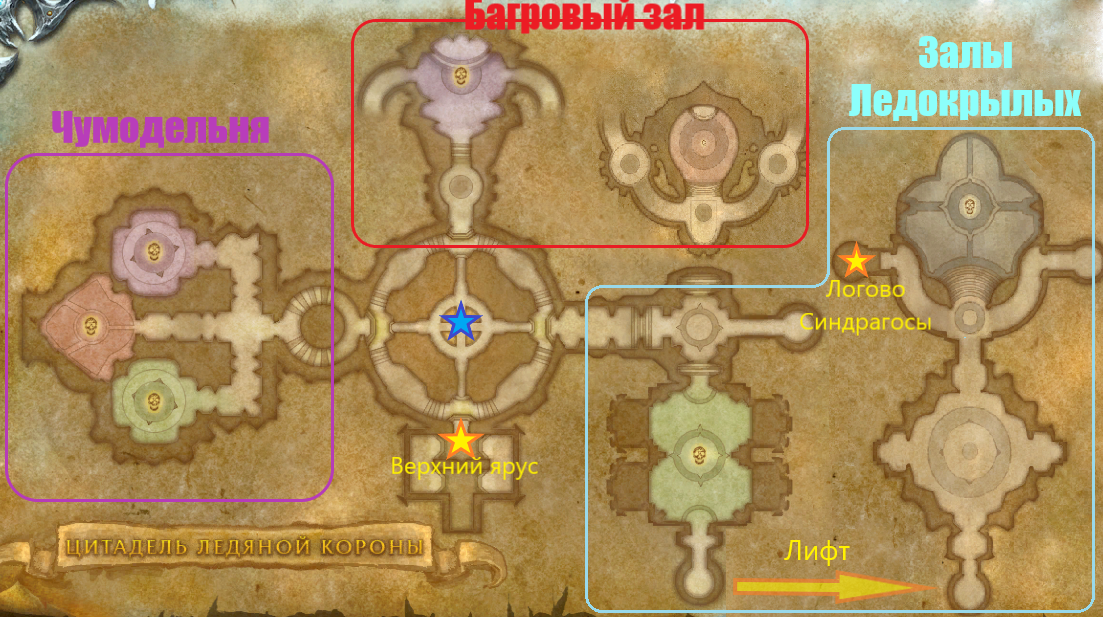
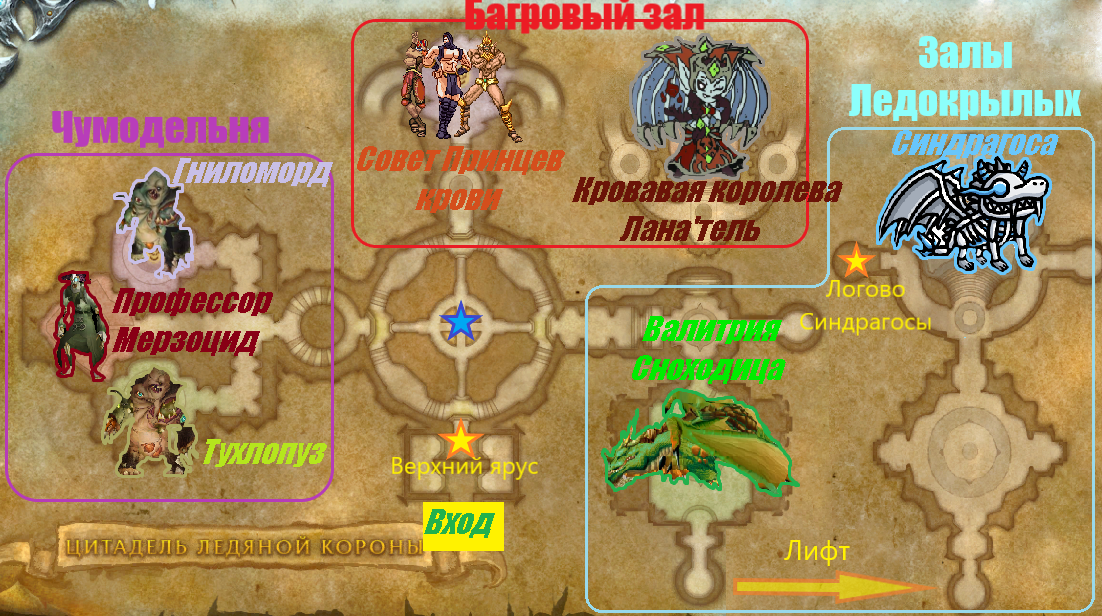
Переделал введение на 75%

diff --git a/docs/icc/intro.md b/docs/icc/intro.md
@@ -48,3 +48,26 @@ description: Introduction page.
 
 ![второй ярус](/img/icc/map/Верхний_ярус_склеенный.png)
 
+***Чумодельня***
+
+Ужасная лаборатория, в которой создаются мерзкие создания из плоти. 
+
+Боссы: Тухлопуз, Гниломорд и Профессор Мерзоцид.
+
+К профессору нельзя попасть пока не будут убиты первые два боковых босса.
+
+***Багровый зал***
+
+Логово эльфов-кровопийц, центр разработок диверсий и совращению умов врагов плети.
+
+Боссы: Совет Прицев Крови (Келесет, Талдарам, Валанар), Кровавая Королева Лана'тель.
+
+***Залы ледокрылых***
+
+В этой части цитадели тренируются врайкулы и создаются ледяные змеи.
+
+Боссы: Валитрия Сноходиа, Синдрагоса.
+
+### Сражение с Королём Личём
+
+После зачистки всех в централь
